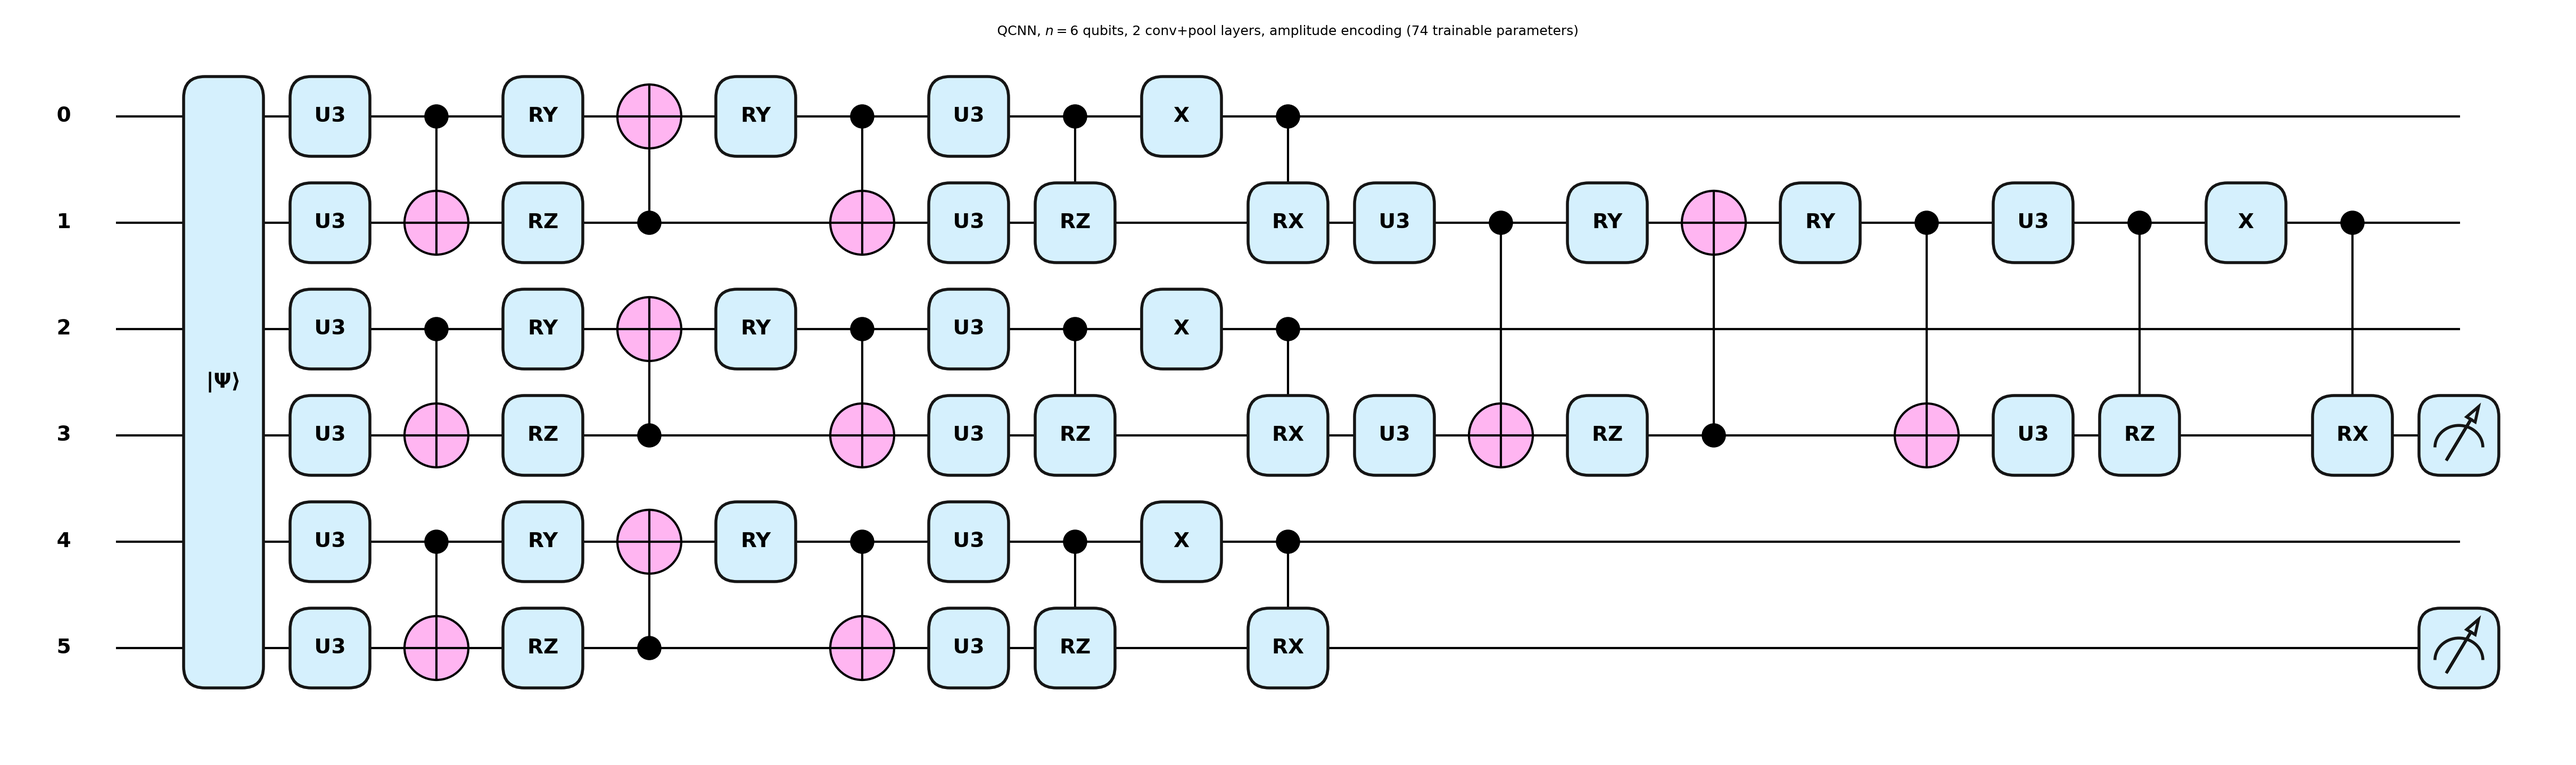
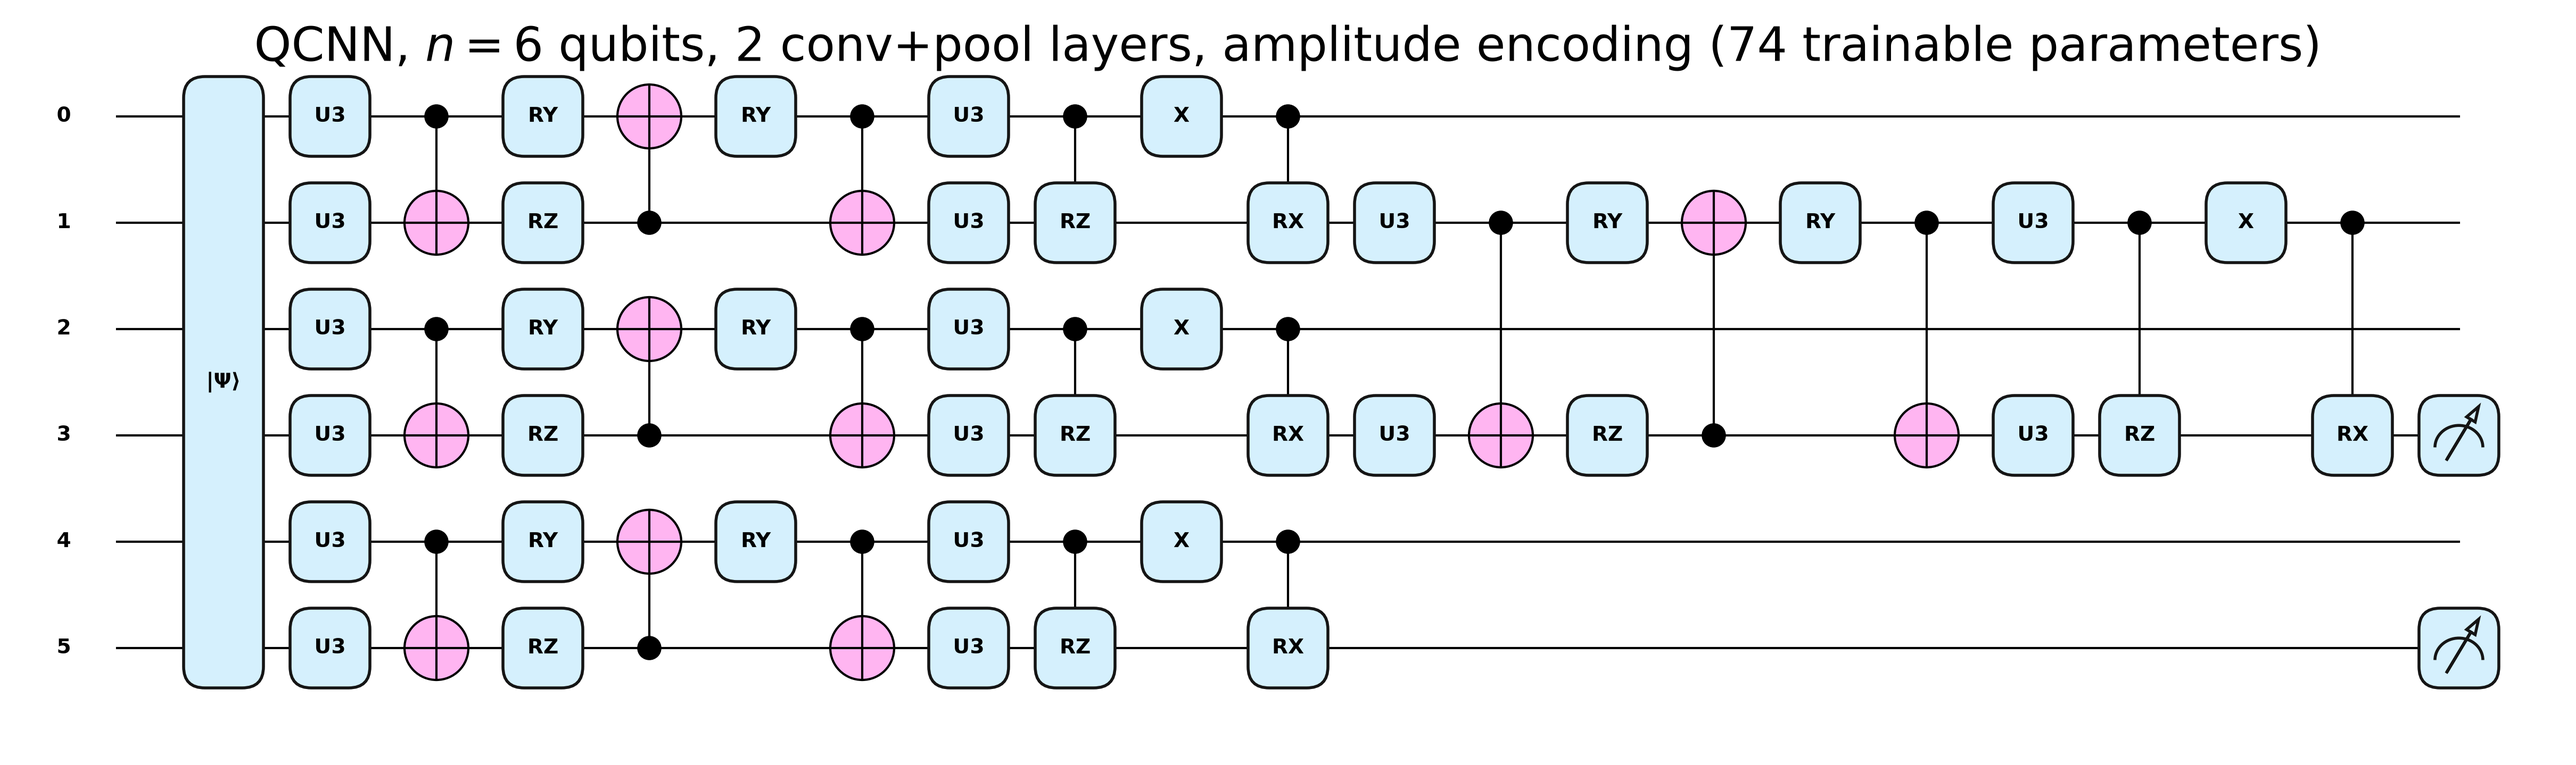
Label the spread std, not sd, and make the circuit figure's title readable
Brings the published code in line with the dissertation, which was corrected on
2026-09-17. rq2_analysis.py labelled the spread "sd" on an axis, in a docstring
and in a figure title, while the thesis captions beneath those same figures say
"std"; the figures regenerated here carry the corrected labels.

make_circuit_figure.py set the circuit title at fontsize 9. qml.draw_mpl sizes
that circuit about 24 inches wide and the thesis places it at 16.97 cm, so text
shrinks roughly 0.28x on the page and the title printed at about 2.5 pt. 32 is
the size that lands near 9 pt in print.

Only these fixes were taken from the working tree. The repointed references and
the portable run commands introduced here in 121393c are deliberately kept: the
working copies still carry hardcoded local paths and point at thesis documents
that do not ship with this repository.

Changed region(s): [[0.0936, 0.0306, 0.9048, 0.0917]]

diff --git a/experiments/rq2_analysis.py b/experiments/rq2_analysis.py
@@ -359,7 +359,7 @@ def fig1_config_grid(all_data: dict):
         ax.set_yticks(ys)
         ax.set_yticklabels(labels, fontsize=8.5)
         ax.set_xlim(0.55, 1.06)
-        ax.set_xlabel("Final test accuracy (mean ± sd over 5 seeds)")
+        ax.set_xlabel("Final test accuracy (mean ± std over 5 seeds)")
         ax.set_title(ds_label)
         ax.grid(axis="y", visible=False)
     handles = [plt.Line2D([], [], marker=ANSATZ_MARKER[a], color=MUTED, linestyle="",
@@ -421,7 +421,7 @@ def fig2_encoding_matched(all_data: dict, analysis: dict):
 
 
 def fig3_learning_curves(all_data: dict):
-    """test_acc vs epoch, mean +- sd band, core grid only (depth 2), split by ansatz."""
+    """test_acc vs epoch, mean +- std band, core grid only (depth 2), split by ansatz."""
     fig, axes = plt.subplots(2, 2, figsize=(12.0, 8.0), sharex=True, sharey=True)
     for col, (ds_key, ds_label) in enumerate(DATASETS):
         data = all_data[ds_key]
@@ -455,7 +455,7 @@ def fig3_learning_curves(all_data: dict):
                 ax.set_xlabel("Epoch")
             if col == 0:
                 ax.set_ylabel("Test accuracy")
-    fig.suptitle("RQ2 — learning curves, core grid (depth 2), mean ± sd over 5 seeds",
+    fig.suptitle("RQ2 — learning curves, core grid (depth 2), mean ± std over 5 seeds",
                  fontsize=12.5, color=INK, y=0.98)
     fig.tight_layout(rect=[0, 0, 1, 0.95])
     fig.savefig(FIG_DIR / "fig3_learning_curves.png", bbox_inches="tight")

diff --git a/experiments/make_circuit_figure.py b/experiments/make_circuit_figure.py
@@ -54,8 +54,11 @@ def main():
         raise
 
     fig, ax = qml.draw_mpl(qnode, style="pennylane")(x[0], model.q_params)
+    # fontsize 32, not 9. qml.draw_mpl sizes this circuit at roughly 24 inches wide and
+    # the thesis places it at 16.97 cm, so text shrinks by about 0.28x on the page:
+    # the old 9 pt title printed at ~2.5 pt against 12 pt body text. 32 x 0.28 ~ 9 pt.
     fig.suptitle("QCNN, $n=6$ qubits, 2 conv+pool layers, amplitude encoding "
-                 "(74 trainable parameters)", fontsize=9)
+                 "(74 trainable parameters)", fontsize=32)
     path_png = os.path.join(OUT_DIR, "fig_circuit_qcnn.png")
     fig.savefig(path_png, dpi=200, bbox_inches="tight")
     plt.close(fig)
